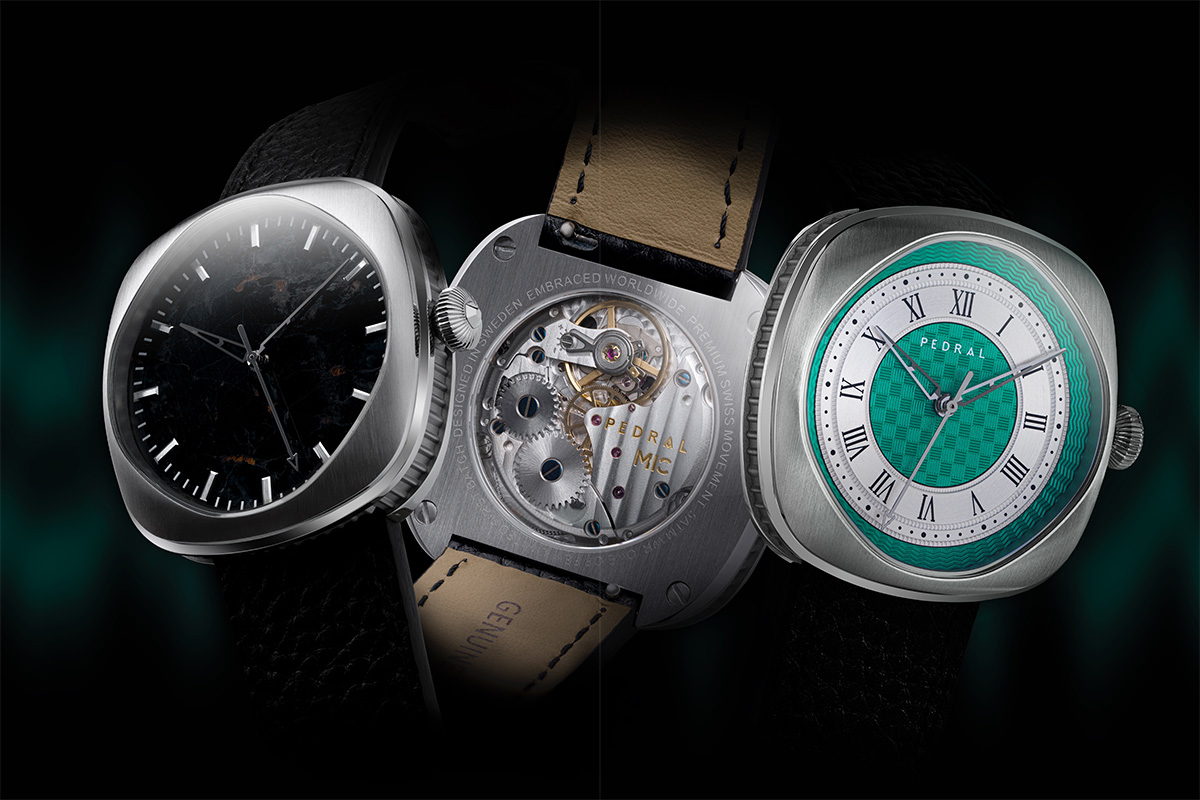
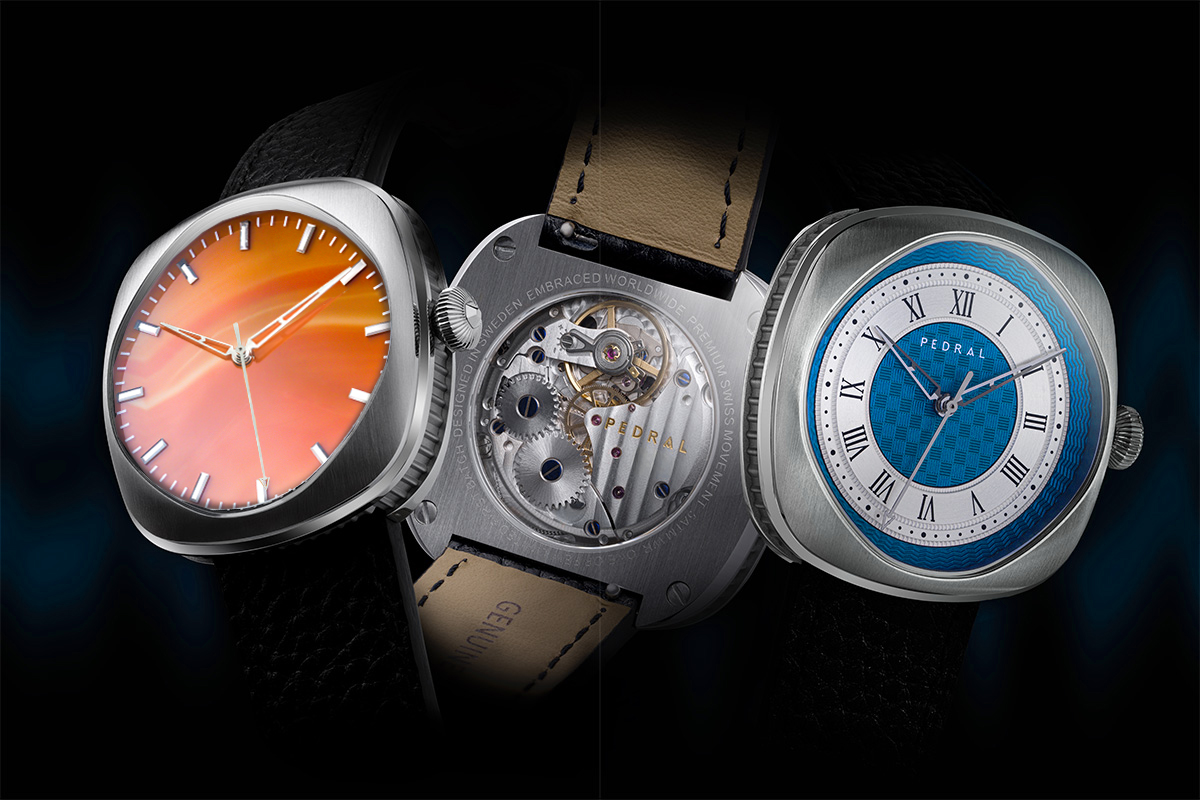
Update Triomphee gallery: new hero, detail, and wrist shots
- Replace hero image with Saphir Azur & Ember Stone multi-variant shot
- Replace detail image with new Saphir Azur close-up (PNG)
- Add Hebrew and Arabic wrist shots to gallery
- Update gallery to 5-panel grid on desktop, horizontal scroll on mobile

diff --git a/src/components/pages/CollectionDetail.tsx b/src/components/pages/CollectionDetail.tsx
@@ -21,6 +21,7 @@ function ImagePlaceholder({ label, className = "" }: { label: string; className?
   );
 }
 
+
 export default function CollectionDetail({ collection }: { collection: Collection }) {
   const c = collection;
   const isSoldOut = c.stock === 0 && !c.isEnquiryOnly;
@@ -479,28 +480,38 @@ export default function CollectionDetail({ collection }: { collection: Collectio
       </section>
 
       {/* Gallery Strip */}
-      <section className="grid grid-cols-1 gap-[2px] md:grid-cols-3">
-        {(c.galleryImages && c.galleryImages.length > 0
-          ? c.galleryImages
-          : [null, null, null]
-        ).map((src, i) => (
-          <div key={i} className="relative h-[250px] w-full md:h-[380px]">
-            {src ? (
-              <Image
-                src={src}
-                alt={`${c.name} angle ${i + 1}`}
-                fill
-                className="object-cover transition-transform duration-500 hover:scale-[1.02]"
-              />
-            ) : (
-              <ImagePlaceholder
-                label={`${c.name}\nAngle ${i + 1}`}
-                className="h-full w-full"
-              />
-            )}
-          </div>
-        ))}
-      </section>
+      {(() => {
+        const images = c.galleryImages && c.galleryImages.length > 0 ? c.galleryImages : [null, null, null];
+        const cols = images.length;
+        return (
+          <>
+            {/* Mobile: horizontal scroll */}
+            <section className="flex gap-[2px] overflow-x-auto snap-x snap-mandatory scrollbar-none md:hidden">
+              {images.map((src, i) => (
+                <div key={i} className="relative h-[280px] w-[80vw] shrink-0 snap-start">
+                  {src ? (
+                    <Image src={src} alt={`${c.name} angle ${i + 1}`} fill className="object-cover" />
+                  ) : (
+                    <ImagePlaceholder label={`${c.name}\nAngle ${i + 1}`} className="h-full w-full" />
+                  )}
+                </div>
+              ))}
+            </section>
+            {/* Desktop: 5-panel grid */}
+            <section className="hidden gap-[2px] md:grid" style={{ gridTemplateColumns: `repeat(${cols}, 1fr)` }}>
+              {images.map((src, i) => (
+                <div key={i} className="relative h-[380px] w-full">
+                  {src ? (
+                    <Image src={src} alt={`${c.name} angle ${i + 1}`} fill className="object-cover transition-transform duration-500 hover:scale-[1.02]" />
+                  ) : (
+                    <ImagePlaceholder label={`${c.name}\nAngle ${i + 1}`} className="h-full w-full" />
+                  )}
+                </div>
+              ))}
+            </section>
+          </>
+        );
+      })()}
 
       {/* Specifications */}
       <section className="bg-background-alt py-20 md:py-28">

diff --git a/src/lib/collections.ts b/src/lib/collections.ts
@@ -255,10 +255,12 @@ export const collections: Collection[] = [
     newsletterSub: "Allocation-based. Priority to the list.",
     image: "/images/triomphe-saphir-roman.jpg",
     heroImage: "/images/triomphe-hero.jpg",
-    detailImage: "/images/triomphe-detail.jpg",
+    detailImage: "/images/triomphe-detail.png",
     galleryImages: [
+      "/images/triomphe-wrist-hebrew.jpg",
       "/images/triomphe-angle-1.jpg",
       "/images/triomphe-angle-2.jpg",
+      "/images/triomphe-wrist-arabic.jpg",
       "/images/triomphe-angle-3.jpg",
     ],
     comingSoonEditions: [],
